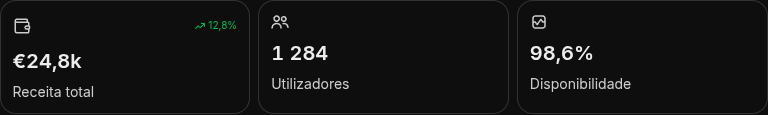
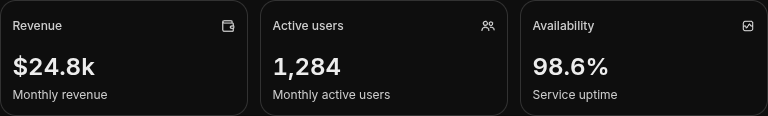
docs: replace visual evidence with English static QA reply

diff --git a/docs/proposals/recorded-intelligent-ui-evidence.md b/docs/proposals/recorded-intelligent-ui-evidence.md
@@ -1,86 +1,119 @@
-# One static Bento: native reference and recorded timeline
+# One English static Bento: native reply and recorded timeline
 
-This answers the capture-format question in the proposal with one **existing,
-fictional ChatGPT reply**. Nothing was regenerated. Only the three metric cards
-are shown; no account, browser chrome, conversation identifiers or private data
-appear. This PR still contains **documentation and images only**. Experimental
-runtime code is not included and is not proposed as a single implementation PR.
+This answers the capture-format question with a **single fictional English QA
+reply**. The contributor explicitly requested a new example and generated it once
+in ChatGPT. The same completed answer is used throughout; it was not regenerated
+for CoS. Only component crops are published, without browser chrome, account
+information, chat identifiers or private content. This PR remains documentation
+and images only; no experimental runtime implementation is included.
 
-## Capture conditions and limits
+## Same English reply in ChatGPT and the installed app
 
-- Same already-generated labels/values: €24,8k, 1 284, 98,6% and 12,8%.
-- Useful component width: **768 CSS px** in both interfaces; dark theme.
-- Native browser zoom: 100%, confirmed by the person; desktop scale: 1.
-  The native crop is 768 raster pixels wide. The protected read-only connector
-  exposed DOM bounds, but not the font family or DPR directly.
-- CoS: actual compiled experimental timeline, zoom 1/DPR 1, default app font,
-  read-only offline import and in-memory IPC. **Not upstream main, the installed
-  app, or a fresh capture through the modified paired extension.**
-- CoS frames wait for compositor acknowledgement. Native image is a desktop
-  crop restricted to the cards. Images retain their original scale; only cropping
-  was applied. Font/assets readiness was not independently instrumented in the
-  protected native page. This is not a pixel-diff score or proof of full parity.
+The answer is titled **Sample business overview** and contains exactly:
 
-## Same fictional reply, side by side
+| Label | Value | Description |
+| --- | --- | --- |
+| Revenue | $24.8k | Monthly revenue |
+| Active users | 1,284 | Monthly active users |
+| Availability | 98.6% | Service uptime |
 
-| ChatGPT original | CoS experimental baseline |
+| ChatGPT original | Installed CoS, as observed by the contributor |
 | --- | --- |
-| ![Native fictional Bento](assets/intelligent-ui/chatgpt-static-bento.png) | ![Same recorded Bento in the compiled timeline](assets/intelligent-ui/cos-static-bento-before.png) |
+| ![Original English three-card Bento](assets/intelligent-ui/chatgpt-static-bento.png) | ![Same answer in the installed app, with stacked panels and an unboxed final metric](assets/intelligent-ui/cos-installed-static-bento.png) |
 
-Open the images at original size to compare at 768 px; the Markdown table scales
-them to fit. The baseline has the three columns and exact text, but its cards are
-too tall and its type hierarchy, colours and icons differ.
+These are unaltered crops of the contributor's supplied desktop screenshot. The
+original component is 768 raster pixels wide, corresponding to a live DOM width
+of 768 CSS px; the installed-app crop is **878 px wide**. The table scales the
+images to fit; open them at original size. The installed screenshot demonstrates
+structural loss, **not a normalized typography or geometry comparison**: its zoom,
+font, settings and exact installed build were not independently recorded.
 
-## What is lost, and where
+The native answer has one three-column row of equal cards. The installed timeline
+stacks the first two metric panels and leaves Availability as ordinary text.
+All labels/values remain legible, but the shared grid and final box are missing.
+No image was translated, retouched or resized to create this evidence.
 
-| Detail | Native / baseline CoS | Already recorded? | Smallest owner to change |
+## What is already recorded, and where structure is lost
+
+The original saved answer contains the three typed grid items/boxes, all exact
+labels/values, `grid-template-columns: repeat(3, minmax(0px, 1fr))`, and typed
+rows/title/text nodes with size/weight enums. There are no charts, forms, actions
+or external images in this example. Its saved HTML is approximately 11.5k chars,
+is not truncated and already contains the structural data needed for this scope.
+
+At this proposal's code base, `restoreRecordedDilLayouts` selects cards, bordered
+box panels, steps and photos, **not a standalone grid**. The individual boxes are
+therefore panel candidates rather than one shared grid candidate. Its panel
+minimum is five `visibleWords` tokens. Applying that existing tokenizer to the
+recording gives:
+
+| Card | Existing visible-word token count | Passes five-token panel minimum? |
+| --- | --- | --- |
+| Revenue | 6 | Yes |
+| Active users | 6 | Yes |
+| Availability | 4 | No |
+
+Currency and number tokens count according to the existing tokenizer; these are
+not English keyword tests. This explains the observed two-panel/one-plain-metric
+pattern from the current source owners. The screenshot is an installed-app
+observation, not proof that the current upstream `main` was built and exercised.
+Do not simply lower the guard for every panel: match a complete bounded static
+grid through the existing canonical-text and sanitizer checks.
+
+## Controlled experimental replay at the original useful width
+
+The same saved reply was imported read-only into the isolated prototype and loaded
+in its actual compiled timeline with in-memory IPC. Both experimental states use
+**768 CSS px, dark theme, zoom 1/DPR 1 and the same default app font**. The before
+state uses the archived stylesheet from before the narrow margin correction; the
+after state uses the current stylesheet. This isolates the CSS delta without
+changing the answer or invoking the provider. The prototype is not upstream main,
+the installed application or a fresh capture by the modified paired extension.
+
+| Experimental stylesheet before margin correction | Experimental current stylesheet |
+| --- | --- |
+| ![English recorded Bento before the margin reset](assets/intelligent-ui/cos-static-bento-before.png) | ![Same recorded English Bento after the margin reset](assets/intelligent-ui/cos-static-bento-after.png) |
+
+| Measured detail | ChatGPT native DOM | Experimental before | Experimental after |
 | --- | --- | --- | --- |
-| Three-column hierarchy and order | Present in both | Yes: typed grid/items and `repeat(3,…)` hint | No new format needed |
-| Standalone grid recovery in upstream | The experimental baseline restores the row; upstream has not been demonstrated here | The original recording has the grid/items/boxes | Investigate the existing `restoreRecordedDilLayouts` candidate/matching path, not a second renderer |
-| Extra title/paragraph margins | No authored margins on native typed text; CoS metric heading has 16.5 px above and below | Typed `title`/`text` markers are present; these margins come from CoS Markdown CSS | Renderer-only reset within structured grid-card boxes |
-| Grid gap | 8 / 12 px | Inline expression is stored: `calc(var(--spacing, 0.25rem) * 2)`; resolved token is not | Separate capture decision if exact computed geometry is needed; do not assume a private variable's value |
-| Card edge-to-content inset | 13 / 21 px | Logical padding expressions are stored; resolved lengths are absent | Separate bounded computed-geometry question |
-| Metric title height | 28 / 36 px | Size/weight enums exist, but are not fully mapped | Investigate bounded enum mapping in the existing renderer |
-| Icons, surfaces, radius and font | Still visibly different | Coverage varies; provider tokens/styles are unavailable | Out of the first margin fix; no raw CSS/JS replay |
+| Useful grid width | 768 px | 768 px | 768 px |
+| Columns / card width | 3 / 248 px | 3 / 248 px | 3 / 248 px |
+| Grid gap | 12 px | 12 px | 12 px |
+| Card height | 116 px | 219.6 px | 152.5 px |
+| Metric title block height | 32 px | 36 px | 36 px |
+| Card edge-to-content inset | 13 px | 21 px | 21 px |
+| CoS metric heading top/bottom margins | Not read directly | 16.5 / 16.5 px | 0 / 0 px |
 
-At this proposal's code base, `restoreRecordedDilLayouts` considers cards, bordered
-box panels, steps and photos; a standalone grid is not a candidate. Its panel
-minimum-word guard can also exclude short metric cards. This is source inspection,
-not an upstream runtime result. A margin-only patch to the experimental selector
-would not, by itself, add this grid recovery to upstream.
+Removing ordinary Markdown margins only from typed title/text descendants of
+structured grid boxes reduces excess height while preserving labels, values and
+order. **That margin correction needs no new recorded field.** It is diagnostic:
+its experimental selector alone would not restore the grid in upstream.
 
-Native card width is approximately 250.7 px; baseline CoS is 248 px because of
-the different grid gap. The reported insets and dimensions come from live DOM
-bounds; unknown computed properties have not been filled with invented values.
+Spacing expressions, including logical padding and inner gaps, remain recorded
+as private-token expressions rather than resolved lengths. The grid gap happens
+to match in this example; this does not justify assuming token values generally.
+Typography, padding, surface colour, icons and radius still differ. The native
+font family, zoom and DPR were not independently read for this new response;
+DOM bounds and the native crop agree on useful width. No normalized font/asset
+comparison, pixel-diff score or full visual parity is claimed.
 
-## One isolated renderer experiment
+English-specific verification exercised both compiled-timeline states and checked
+all three exact card texts/values/order, widths, current zero heading margins and
+absence of outer overflow. Images wait for compositor acknowledgement. No runtime
+code changed for this English evidence refresh. The previous local Linux margin
+regression run passed 437 focused tests, typecheck, build and targeted Electron
+checks; those historical results are not a new full-suite run for this example.
+Full `npm run verify`, the full UI suite and Windows/macOS remain unverified here.
 
-Removing ordinary Markdown margins **only from typed title/text descendants of
-grid-card boxes** reduces card height from **209.6 to 159 px**, against **114.2 px**
-in the native reference. All recorded labels/values and column order stay equal.
-No capture field, provider callback, setting or interaction is added. Ordinary
-Markdown outside those cards retains its margins.
+## Proposed first contribution
 
-![CoS after the isolated margin correction](assets/intelligent-ui/cos-static-bento-after.png)
-
-This remains visibly incomplete: the grid gap, padding, typography, icons and
-surface styling still differ. The after image shows the same local experimental
-baseline plus the narrow CSS correction, not the behavior of this docs-only PR.
-
-The new regression failed before the CSS correction and passed afterwards.
-Local Linux checks: 437 focused tests in 16 files (including four opt-in recorded
-QA probes), typecheck, build and the Electron geometry/gallery check passed.
-The gallery check covers six theme/width layouts. Full `npm run verify`, the full
-UI suite and Windows/macOS rendering were not run for this experiment.
-
-## Proposed next contribution
-
-Keep this PR a draft for product/design review. A separate, small renderer-only
-contribution should demonstrate a complete static grid through the existing
-`restoreRecordedDilLayouts` matching/sanitization owner, including short metric
-labels and controlled card spacing. The original recording already contains the
-structural attributes; the margin experiment needs no new fields. Prove that scope
-against upstream before choosing any capture-format change. Defer charts, controls
-and widget snapshots, and keep today's Markdown fallback. The broader prototype
-must not be submitted wholesale. Complete the normal upstream validation and a
-comparison against the implementation PR's actual base before submission.
+Keep the PR a draft for product/design review. A small separate renderer change
+should recover a complete static grid through `restoreRecordedDilLayouts` and its
+existing matching/sanitization owner, handle short metric labels without dropping
+one card, and control structured-card spacing. This example already holds the
+structural attributes, so a new capture format is not justified for that first
+scope. Resolved private tokens need a separate decision if later fidelity work
+requires them. Defer charts, controls, callbacks, settings and widget snapshots;
+keep today's Markdown fallback. Reproduce against the implementation PR's actual
+upstream base and complete the normal gates before submission. Do not submit the
+accumulated experimental prototype wholesale.

diff --git a/docs/proposals/recorded-intelligent-ui.md b/docs/proposals/recorded-intelligent-ui.md
@@ -2,8 +2,8 @@
 
 **Status:** Design discussion only. This document changes no application behavior.
 
-**Concrete evidence:** [one fictional static Bento in ChatGPT and the recorded
-CoS timeline](recorded-intelligent-ui-evidence.md), including missing structure,
+**Concrete evidence:** [one English fictional static Bento in ChatGPT, the installed app and the recorded
+experimental timeline](recorded-intelligent-ui-evidence.md), including missing structure,
 which attributes are already recorded, and an isolated renderer-only margin
 experiment. This proposal PR contains no runtime implementation.
 
